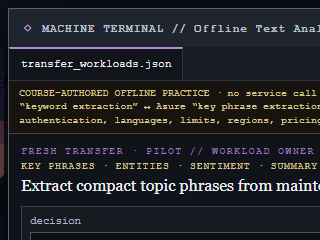
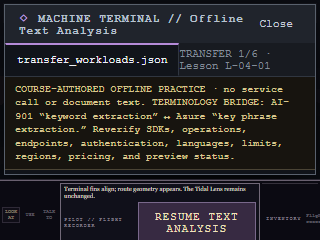
Round 14 step 2 Coder Agent checkpoint

diff --git a/horizon-archive-game/src/App.jsx b/horizon-archive-game/src/App.jsx
@@ -144,6 +144,19 @@ import {
   textAnalysisTransferScenarios,
   updateTextAnalysisEvidence,
 } from "./textAnalysisExercise.js";
+import {
+  evaluateSpeechExplanation,
+  evaluateSpeechScenario,
+  getSpeechOptions,
+  sanitizeSpeechEvidence,
+  speechDimensions,
+  speechExplanationDimensions,
+  speechPrimaryScenarios,
+  speechRemediation,
+  speechTransferScenarios,
+  speechWorkloadExercise,
+  updateSpeechEvidence,
+} from "./speechWorkloadExercise.js";
 
 const SAVE_KEY = "horizon-archive-prologue-v1";
 
@@ -325,6 +338,7 @@ function loadSave() {
       controlFlowEvidence: sanitizeControlFlowEvidence(saved.controlFlowEvidence),
       clientBridgeEvidence: sanitizeClientBridgeEvidence(saved.clientBridgeEvidence),
       textAnalysisEvidence: sanitizeTextAnalysisEvidence(saved.textAnalysisEvidence),
+      speechEvidence: sanitizeSpeechEvidence(saved.speechEvidence),
     };
   } catch {
     // A malformed local save should never prevent a new expedition.
@@ -371,6 +385,8 @@ export function App() {
   const [clientBridgeEvidence, setClientBridgeEvidence] = useState(null);
   const [textAnalysisSession, setTextAnalysisSession] = useState(null);
   const [textAnalysisEvidence, setTextAnalysisEvidence] = useState(null);
+  const [speechSession, setSpeechSession] = useState(null);
+  const [speechEvidence, setSpeechEvidence] = useState(null);
   const terminalTriggerRef = useRef(null);
   const continueButtonRef = useRef(null);
   const focusContinueAfterStructuredRef = useRef(false);
@@ -436,9 +452,10 @@ export function App() {
         controlFlowEvidence,
         clientBridgeEvidence,
         textAnalysisEvidence,
+        speechEvidence,
       }));
     }
-  }, [mode, sceneIndex, completed, pendingAdvance, scene.id, exerciseEvidence, workloadEvidence, evidencePacketMastery, routeMarkerMastery, calibrationMastery, responsibleAIEvidence, modelChoiceEvidence, structuredPacketEvidence, controlFlowEvidence, clientBridgeEvidence, textAnalysisEvidence]);
+  }, [mode, sceneIndex, completed, pendingAdvance, scene.id, exerciseEvidence, workloadEvidence, evidencePacketMastery, routeMarkerMastery, calibrationMastery, responsibleAIEvidence, modelChoiceEvidence, structuredPacketEvidence, controlFlowEvidence, clientBridgeEvidence, textAnalysisEvidence, speechEvidence]);
 
   useLayoutEffect(() => {
     if (!focusContinueAfterStructuredRef.current || terminalOpen || structuredPacketEvidence?.masteryStatus !== "mastered") return;
@@ -502,6 +519,8 @@ export function App() {
     setClientBridgeEvidence(null);
     setTextAnalysisSession(null);
     setTextAnalysisEvidence(null);
+    setSpeechSession(null);
+    setSpeechEvidence(null);
     setMode("playing");
   }
 
@@ -534,6 +553,8 @@ export function App() {
     if (saved.textAnalysisEvidence?.masteryStatus === "mastered") focusContinueAfterTextRef.current = true;
     setTextAnalysisEvidence(saved.textAnalysisEvidence);
     setTextAnalysisSession(null);
+    setSpeechEvidence(saved.speechEvidence);
+    setSpeechSession(null);
     setResponsibleAIEvidence(saved.responsibleAIEvidence);
     setResponsibleAISession(null);
     setModelChoiceEvidence(saved.modelChoiceEvidence);
@@ -1179,6 +1200,15 @@ export function App() {
   function acknowledgeTextAnalysisPrimary() { if (!textAnalysisSession?.complete || !textAnalysisEvidence?.confidence) return; setTextAnalysisEvidence((previous) => updateTextAnalysisEvidence(previous, { form: "transfer", masteryStatus: "primary_complete", clearMisconceptionTags: true })); setTextAnalysisSession(null); setTerminalOpen(false); setRuinsTerminalKind(null); setDialogue("Text Analysis primary form complete at 12 of 12. Fresh transfer and closed-note workload choice remain.", "teacher"); }
   function checkTextAnalysisExplanation(event) { event.preventDefault(); const result = evaluateTextAnalysisExplanation(textAnalysisSession.explanationResponse); setTextAnalysisSession({ ...textAnalysisSession, explanationResult: result }); setTextAnalysisEvidence((previous) => updateTextAnalysisEvidence(previous, { form: "explanation", scenarioId: "explanation", correctness: result.correctness, incrementAttempt: true, masteryStatus: "transfer_complete" })); }
   function acknowledgeTextAnalysisMastery() { if (!textAnalysisSession?.explanationResult?.passed || !textAnalysisSession.ownershipConfirmed || !textAnalysisEvidence?.confidence) return; focusContinueAfterTextRef.current = true; setTextAnalysisEvidence((previous) => updateTextAnalysisEvidence(previous, { form: "explanation", masteryStatus: "mastered", clearMisconceptionTags: true })); setTextAnalysisSession(null); setTerminalOpen(false); setRuinsTerminalKind(null); setDialogue("Text Analysis mastery confirmed: both 12-of-12 forms and closed-note workload explanation are complete.", "teacher"); }
+
+  function openSpeechWorkloads() { setTerminalOpen(true); setRuinsTerminalKind("speech-workloads"); if (!speechSession) { const form = speechEvidence?.masteryStatus === "primary_complete" ? "transfer" : speechEvidence?.masteryStatus === "transfer_complete" ? "explanation" : "primary"; setSpeechSession({ form, phase: form === "explanation" ? "explanation" : "scenarios", index: 0, response: { decision: "", reason: "" }, result: null, hintLevel: 0, complete: false, explanationResponse: { direction: "", workload: "", file_binding: "", result_branch: "" }, explanationResult: null, ownershipConfirmed: false }); } }
+  function exitSpeechWorkloads() { setTerminalOpen(false); setRuinsTerminalKind(null); setDialogue("Speech Workloads practice closed safely. No audio state exists; choices remain session-only.", "system"); }
+  function checkSpeech(event) { event.preventDefault(); const scenarios = speechSession.form === "transfer" ? speechTransferScenarios : speechPrimaryScenarios; const scenario = scenarios[speechSession.index]; const result = evaluateSpeechScenario(scenario.id, speechSession.response, speechSession.form); const hintLevel = result.passed ? speechSession.hintLevel : Math.max(1, speechSession.hintLevel); setSpeechSession({ ...speechSession, result, hintLevel }); setSpeechEvidence((previous) => updateSpeechEvidence(previous, { form: speechSession.form, scenarioId: scenario.id, correctness: result.correctness, incrementAttempt: true, hintLevel, misconceptionTags: result.misconceptionTags, masteryStatus: speechSession.form === "transfer" ? "primary_complete" : result.passed ? "in_progress" : "remediation_required" })); }
+  function revealSpeechHint() { const hintLevel = Math.min(3, speechSession.hintLevel + 1); setSpeechSession({ ...speechSession, hintLevel }); setSpeechEvidence((previous) => updateSpeechEvidence(previous, { hintLevel })); }
+  function advanceSpeech() { if (!speechSession.result?.passed) return; const scenarios = speechSession.form === "transfer" ? speechTransferScenarios : speechPrimaryScenarios; if (speechSession.index === scenarios.length - 1) { if (speechSession.form === "transfer") { setSpeechEvidence((previous) => updateSpeechEvidence(previous, { form: "explanation", masteryStatus: "transfer_complete", clearMisconceptionTags: true })); setSpeechSession({ ...speechSession, form: "explanation", phase: "explanation", result: null, hintLevel: 0 }); } else setSpeechSession({ ...speechSession, complete: true }); return; } setSpeechSession({ ...speechSession, index: speechSession.index + 1, response: { decision: "", reason: "" }, result: null, hintLevel: 0 }); }
+  function acknowledgeSpeechPrimary() { if (!speechSession?.complete || !speechEvidence?.confidence) return; setSpeechEvidence((previous) => updateSpeechEvidence(previous, { form: "transfer", masteryStatus: "primary_complete", clearMisconceptionTags: true })); setSpeechSession(null); setTerminalOpen(false); setRuinsTerminalKind(null); setDialogue("Speech Workloads primary form complete at 12 of 12. Fresh transfer and closed-note explanation remain.", "teacher"); }
+  function checkSpeechExplanation(event) { event.preventDefault(); const result = evaluateSpeechExplanation(speechSession.explanationResponse); setSpeechSession({ ...speechSession, explanationResult: result }); setSpeechEvidence((previous) => updateSpeechEvidence(previous, { form: "explanation", scenarioId: "explanation", correctness: result.correctness, incrementAttempt: true, masteryStatus: "transfer_complete" })); }
+  function acknowledgeSpeechMastery() { if (!speechSession?.explanationResult?.passed || !speechSession.ownershipConfirmed || !speechEvidence?.confidence) return; focusContinueAfterClientRef.current = true; setSpeechEvidence((previous) => updateSpeechEvidence(previous, { form: "explanation", masteryStatus: "mastered", clearMisconceptionTags: true })); setSpeechSession(null); setTerminalOpen(false); setRuinsTerminalKind(null); setDialogue("Speech Workloads mastery confirmed: both 12-of-12 forms and closed-note explanation are complete.", "teacher"); }
 
   function validateEvidenceOutput(event) {
     event.preventDefault();
@@ -2025,6 +2055,17 @@ export function App() {
             </section>
           </TerminalShell>
         )}
+        {terminalOpen && scene.id === "ruins" && ruinsTerminalKind === "speech-workloads" && speechSession && (
+          <TerminalShell exerciseId={speechWorkloadExercise.exercise_id} title="Offline Speech Workloads" filename={speechSession.phase === "explanation" ? "closed_note.md" : `${speechSession.form}_speech.json`} lessonId={speechWorkloadExercise.lesson_id} statusText={speechSession.phase === "explanation" ? "CLOSED-NOTE GATE" : `${speechSession.form.toUpperCase()} ${speechSession.index + 1}/6`} closeLabel="Exit Speech Workloads" restoreFocusTo={terminalTriggerRef.current} onClose={exitSpeechWorkloads}>
+            <section className="model-choice-workspace speech-workspace"><p className="model-choice-boundary">FULLY OFFLINE · no microphone, capture, playback generation, audio file, or service call. Reverify SDKs, endpoints, authentication, languages, voices, formats, regions, quotas, pricing, and previews.</p>
+              {speechSession.phase === "explanation" ? (
+                <form className="model-choice-form" onSubmit={checkSpeechExplanation}><header><p className="pane-label">PILOT // CLOSED-NOTE SPEECH-FLOW OWNER</p><h2>Explain direction, workload, file binding, and result branch</h2><p className="speech-transcript">Transcript-equivalent text: spoken audio becomes text through recognition; written text becomes audio through synthesis; a spoken general-model question uses multimodal prompt flow.</p></header><div className="model-choice-fields speech-explanation">{speechExplanationDimensions.map((dimension) => { const fieldResult = speechSession.explanationResult?.correctness[dimension]; const id = `speech-explanation-${dimension}-feedback`; return <label key={dimension}><span>{dimension.replaceAll("_", " ")}</span><input aria-label={`Closed-note speech ${dimension}`} aria-invalid={speechSession.explanationResult ? !fieldResult : undefined} aria-describedby={speechSession.explanationResult ? id : undefined} autoComplete="off" value={speechSession.explanationResponse[dimension]} onChange={(event) => setSpeechSession({ ...speechSession, explanationResponse: { ...speechSession.explanationResponse, [dimension]: event.target.value }, explanationResult: null, ownershipConfirmed: false })} />{speechSession.explanationResult && <small id={id}>{fieldResult ? "SYSTEM // Dimension confirmed." : `901 TEACHER // Rebuild ${dimension.replaceAll("_", " ")} from the text-equivalent flow.`}</small>}</label>; })}</div><section className="terminal-console model-choice-output"><div className="console-heading-row"><strong>SYSTEM // CLOSED-NOTE VALIDATOR</strong><button className="run-action" type="submit" disabled={speechExplanationDimensions.some((key) => !speechSession.explanationResponse[key])}>Check speech explanation</button></div><div className={speechSession.explanationResult ? "console-feedback active" : "console-feedback"} role="status" aria-live="polite">{speechSession.explanationResult ? `${speechSession.explanationResult.score}/4 · ${speechSession.explanationResult.passed ? "Complete speech-flow explanation confirmed." : "901 TEACHER // Trace direction, model/service choice, file source/destination, and cancellation."}` : "No audio, path, transcript, prompt, service response, or answer choice is shown."}</div>{speechSession.explanationResult?.passed && <><label className="ownership-confirmation"><input type="checkbox" checked={speechSession.ownershipConfirmed} onChange={(event) => setSpeechSession({ ...speechSession, ownershipConfirmed: event.target.checked })} />I produced this speech-flow explanation myself without notes.</label><fieldset className="confidence-group"><legend>Confidence after both forms</legend>{["low", "medium", "high"].map((value) => <label key={value}><input type="radio" name="speech-confidence" checked={speechEvidence?.confidence === value} onChange={() => setSpeechEvidence((previous) => updateSpeechEvidence(previous, { confidence: value }))} />{value}</label>)}</fieldset><button className="confirm-action" type="button" disabled={!speechSession.ownershipConfirmed || !speechEvidence?.confidence} onClick={acknowledgeSpeechMastery}>Acknowledge strict mastery</button></>}</section></form>
+              ) : speechSession.complete ? (
+                <section className="workload-summary"><p className="pane-label">901 TEACHER // PRIMARY FORM COMPLETE</p><h2>12 / 12 dimensions</h2><p>Recognition, synthesis, spoken multimodal prompts, input/output files, and cancellation handling pass. Fresh transfer and closed-note explanation remain.</p><fieldset className="confidence-group"><legend>Confidence after primary form</legend>{["low", "medium", "high"].map((value) => <label key={value}><input type="radio" name="speech-primary-confidence" checked={speechEvidence?.confidence === value} onChange={() => setSpeechEvidence((previous) => updateSpeechEvidence(previous, { confidence: value }))} />{value}</label>)}</fieldset><button className="confirm-action" type="button" disabled={!speechEvidence?.confidence} onClick={acknowledgeSpeechPrimary}>Acknowledge primary form</button></section>
+              ) : (() => { const scenarios = speechSession.form === "transfer" ? speechTransferScenarios : speechPrimaryScenarios; const scenario = scenarios[speechSession.index]; const options = getSpeechOptions(scenario.id, speechSession.form); return <form className="model-choice-form" onSubmit={checkSpeech}><header><p className="pane-label">{speechSession.form === "transfer" ? "FRESH TRANSFER" : "PRIMARY"} · PILOT // SPEECH-FLOW OWNER · {scenario.id}</p><p className="model-choice-layer-labels">AUDIO → TEXT · TEXT → AUDIO · SPOKEN MULTIMODAL PROMPT · RESULT/CANCELLATION</p><h2>{scenario.prompt}</h2><p className="speech-transcript">Transcript-equivalent scenario text: {scenario.prompt}</p></header><div className="model-choice-fields">{speechDimensions.map((dimension) => { const fieldResult = speechSession.result?.correctness[dimension]; const id = `speech-${dimension}-feedback`; return <label key={dimension}><span>{dimension}</span><select aria-label={`Speech ${dimension}`} aria-invalid={speechSession.result ? !fieldResult : undefined} aria-describedby={speechSession.result ? id : undefined} value={speechSession.response[dimension]} onChange={(event) => setSpeechSession({ ...speechSession, response: { ...speechSession.response, [dimension]: event.target.value }, result: null })}><option value="">Choose one</option>{options[dimension].map((value) => <option key={value} value={value}>{formatChoice(value)}</option>)}</select>{speechSession.result && <small id={id}>{fieldResult ? "SYSTEM // Correct." : `901 TEACHER // Review the ${dimension} from direction, file binding, and result reason.`}</small>}</label>; })}</div><section className="terminal-console model-choice-output"><div className="console-heading-row"><strong>SYSTEM // STRICT 12-DIMENSION VALIDATOR</strong><button className="run-action" type="submit" disabled={speechDimensions.some((key) => !speechSession.response[key])}>Check speech choice</button></div><div className={speechSession.result ? "console-feedback active" : "console-feedback"} role="status" aria-live="polite">{speechSession.result ? `${speechSession.result.score}/2 · ${speechSession.result.passed ? "Choice confirmed." : speechRemediation(scenario, speechSession.result, speechSession.hintLevel)}` : "Choose capability first, then source/destination and success/cancellation handling."}</div>{speechSession.result && !speechSession.result.passed && <button className="hint-action" type="button" disabled={speechSession.hintLevel >= 3} onClick={revealSpeechHint}>Reveal next speech-flow contrast</button>}{speechSession.result?.passed && <button className="confirm-action" type="button" onClick={advanceSpeech}>{speechSession.index === 5 ? (speechSession.form === "transfer" ? "Begin closed-note explanation" : "View primary result") : "Next scenario"}</button>}</section></form>; })()}
+            </section>
+          </TerminalShell>
+        )}
         {terminalOpen && scene.id === "automaton" && evidenceSession && (
           <TerminalShell
             exerciseId={evidencePacketExercise.exercise_id}
@@ -2187,7 +2228,10 @@ export function App() {
                   {pendingAdvance && scene.id === "ruins" && clientBridgeEvidence?.masteryStatus === "mastered" && textAnalysisEvidence?.masteryStatus !== "mastered" && (
                     <button ref={continueButtonRef} className="continue-action" data-terminal-focus-fallback onClick={(event) => { terminalTriggerRef.current = event.currentTarget; openTextAnalysis(); }}>{textAnalysisSession ? "Resume Text Analysis" : textAnalysisEvidence?.masteryStatus === "primary_complete" ? "Start Text Analysis Transfer" : textAnalysisEvidence?.masteryStatus === "transfer_complete" ? "Open Text Analysis Closed-Note Gate" : "Start Text Analysis"}</button>
                   )}
-                  {pendingAdvance && (scene.id !== "ruins" || textAnalysisEvidence?.masteryStatus === "mastered") && (
+                  {pendingAdvance && scene.id === "ruins" && textAnalysisEvidence?.masteryStatus === "mastered" && speechEvidence?.masteryStatus !== "mastered" && (
+                    <button ref={continueButtonRef} className="continue-action" data-terminal-focus-fallback onClick={(event) => { terminalTriggerRef.current = event.currentTarget; openSpeechWorkloads(); }}>{speechSession ? "Resume Speech Workloads" : speechEvidence?.masteryStatus === "primary_complete" ? "Start Speech Transfer" : speechEvidence?.masteryStatus === "transfer_complete" ? "Open Speech Closed-Note Gate" : "Start Speech Workloads"}</button>
+                  )}
+                  {pendingAdvance && (scene.id !== "ruins" || speechEvidence?.masteryStatus === "mastered") && (
                     <button ref={continueButtonRef} className="continue-action" data-terminal-focus-fallback onClick={continueJourney}>
                       {completed.length === scenes.length ? "Descend to the city" : "Continue"}
                     </button>

diff --git a/horizon-archive-game/src/speechWorkloadExercise.js b/horizon-archive-game/src/speechWorkloadExercise.js
@@ -1,0 +1,14 @@
+import exerciseAsset from "../../curriculum/lessons/L-04-02/exercise.json" with { type: "json" };
+import scenarioBank from "../../curriculum/lessons/L-04-02/scenario_bank.json" with { type: "json" };
+import answerKey from "../../curriculum/lessons/L-04-02/answer_key.json" with { type: "json" };
+export const speechWorkloadExercise = exerciseAsset; export const speechPrimaryScenarios = scenarioBank.forms.primary; export const speechTransferScenarios = scenarioBank.forms.transfer; export const speechDimensions = exerciseAsset.dimensions; export const speechExplanationDimensions = ["direction", "workload", "file_binding", "result_branch"];
+const distractors = { speech_recognition: { decision: "speech_synthesis", reason: "spoken_audio_is_generated_from_text" }, speech_synthesis: { decision: "speech_recognition", reason: "written_text_is_a_recognition_input" }, multimodal_spoken_prompt: { decision: "speech_recognition", reason: "every_spoken_question_only_needs_a_transcript" }, P04: { decision: "configure_audio_file_as_output", reason: "recognition_writes_transcript_into_the_audio_input" }, P05: { decision: "configure_audio_file_as_input", reason: "synthesis_reads_generated_audio_from_the_text_input" }, P06: { decision: "assume_successful_content", reason: "cancellation_is_valid_content" }, T04: { decision: "bind_recognizer_to_output_file", reason: "recognition_output_file_is_the_audio_source" }, T05: { decision: "bind_synthesizer_to_input_file", reason: "synthesis_input_audio_contains_the_written_text" }, T06: { decision: "treat_result_as_content", reason: "non_success_reasons_can_be_ignored" } };
+const tags = { speech_recognition: "recognition-is-synthesis", speech_synthesis: "synthesis-is-recognition", multimodal_spoken_prompt: "speech-service-is-any-multimodal-model", P04: "output-file-is-input-file", T04: "output-file-is-input-file", P05: "output-file-is-input-file", T05: "output-file-is-input-file", P06: "ignores-cancellation", T06: "ignores-cancellation" }; const validTags = new Set(exerciseAsset.misconception_tags); const all = [...speechPrimaryScenarios, ...speechTransferScenarios];
+export function getSpeechOptions(id, form = id?.startsWith("T") ? "transfer" : "primary") { const s = scenarioBank.forms[form].find((x) => x.id === id); const e = answerKey.forms[form][id]; const w = distractors[id] || distractors[s.topic]; return { decision: [e.decision, w.decision], reason: [e.reason, w.reason] }; }
+export function evaluateSpeechScenario(id, response, form = id?.startsWith("T") ? "transfer" : "primary") { const e = answerKey.forms[form]?.[id]; if (!e) return null; const correctness = Object.fromEntries(speechDimensions.map((k) => [k, response[k] === e[k]])); const passed = Object.values(correctness).every(Boolean); const s = scenarioBank.forms[form].find((x) => x.id === id); return { correctness, score: Object.values(correctness).filter(Boolean).length, passed, misconceptionTags: passed ? [] : [tags[id] || tags[s.topic]] }; }
+function norm(v) { return String(v ?? "").trim().toLowerCase().replace(/[^a-z0-9]+/g, "_").replace(/^_|_$/g, ""); }
+export function evaluateSpeechExplanation(response) { const e = { direction: "spoken_audio_to_text_is_recognition_text_to_audio_is_synthesis", workload: "spoken_general_model_question_is_multimodal_prompt_flow", file_binding: "recognition_reads_input_file_synthesis_writes_output_file", result_branch: "inspect_result_reason_handle_success_or_cancellation" }; const correctness = Object.fromEntries(speechExplanationDimensions.map((k) => [k, norm(response[k]) === e[k]])); return { correctness, score: Object.values(correctness).filter(Boolean).length, passed: Object.values(correctness).every(Boolean) }; }
+export function speechRemediation(s, r, l) { const missed = speechDimensions.filter((k) => !r.correctness[k]); if (l <= 1) return `Review ${missed.join(" and ")}: name input modality and required output.`; if (l === 2) return `Contrast Speech direction with deployed multimodal interaction for this ${s.topic.replaceAll("_", " ")} card.`; return "Trace input-file versus output-file direction, then branch on success or cancellation."; }
+function complete(c, scenarios) { return scenarios.every((s) => speechDimensions.every((k) => c[s.id]?.[k] === true)); }
+export function sanitizeSpeechEvidence(v) { if (!v || typeof v !== "object" || v.exerciseId !== exerciseAsset.exercise_id) return null; const dimensionCorrectness = {}; for (const s of [...all, { id: "explanation", dimensions: speechExplanationDimensions }]) { const keys = s.dimensions || speechDimensions; if (v.dimensionCorrectness?.[s.id]) dimensionCorrectness[s.id] = Object.fromEntries(keys.filter((k) => typeof v.dimensionCorrectness[s.id][k] === "boolean").map((k) => [k, v.dimensionCorrectness[s.id][k]])); } const strict = complete(dimensionCorrectness, speechPrimaryScenarios) && complete(dimensionCorrectness, speechTransferScenarios) && speechExplanationDimensions.every((k) => dimensionCorrectness.explanation?.[k] === true); let masteryStatus = ["in_progress", "remediation_required", "primary_complete", "transfer_complete", "mastered"].includes(v.masteryStatus) ? v.masteryStatus : "in_progress"; if (masteryStatus === "mastered" && !strict) masteryStatus = complete(dimensionCorrectness, speechTransferScenarios) ? "transfer_complete" : complete(dimensionCorrectness, speechPrimaryScenarios) ? "primary_complete" : "in_progress"; return { exerciseId: exerciseAsset.exercise_id, lessonId: exerciseAsset.lesson_id, activityId: exerciseAsset.activity_id, assessmentIds: [...exerciseAsset.assessment_ids], objectiveIds: [...exerciseAsset.objective_ids], skillIds: [...exerciseAsset.skill_ids], form: ["primary", "transfer", "explanation"].includes(v.form) ? v.form : "primary", dimensionCorrectness, attemptCount: Math.min(99, Math.max(0, Number.isInteger(v.attemptCount) ? v.attemptCount : 0)), hintLevel: Math.min(3, Math.max(0, Number.isInteger(v.hintLevel) ? v.hintLevel : 0)), confidence: ["low", "medium", "high"].includes(v.confidence) ? v.confidence : null, misconceptionTags: Array.isArray(v.misconceptionTags) ? [...new Set(v.misconceptionTags.filter((t) => validTags.has(t)))] : [], masteryStatus }; }
+export function updateSpeechEvidence(previous, changes = {}) { const safe = sanitizeSpeechEvidence(previous) || sanitizeSpeechEvidence({ exerciseId: exerciseAsset.exercise_id }); const dimensionCorrectness = { ...safe.dimensionCorrectness }; if (changes.scenarioId && changes.correctness) dimensionCorrectness[changes.scenarioId] = changes.correctness; return sanitizeSpeechEvidence({ ...safe, form: changes.form || safe.form, dimensionCorrectness, attemptCount: safe.attemptCount + (changes.incrementAttempt ? 1 : 0), hintLevel: Math.max(safe.hintLevel, changes.hintLevel || 0), confidence: changes.confidence || safe.confidence, misconceptionTags: changes.clearMisconceptionTags ? [] : [...safe.misconceptionTags, ...(changes.misconceptionTags || [])], masteryStatus: changes.masteryStatus || safe.masteryStatus }); }

diff --git a/horizon-archive-game/test/speechWorkloadExercise.test.js b/horizon-archive-game/test/speechWorkloadExercise.test.js
@@ -1,0 +1,5 @@
+import test from "node:test"; import assert from "node:assert/strict"; import primary from "../../curriculum/lessons/L-04-02/reference_primary_answers.json" with { type: "json" }; import transfer from "../../curriculum/lessons/L-04-02/reference_transfer_answers.json" with { type: "json" }; import { evaluateSpeechExplanation, evaluateSpeechScenario, sanitizeSpeechEvidence, speechPrimaryScenarios, speechTransferScenarios, updateSpeechEvidence } from "../src/speechWorkloadExercise.js";
+test("both speech forms pass 12/12 with three workloads and safeguards", () => { for (const [form, scenarios, answers] of [["primary", speechPrimaryScenarios, primary], ["transfer", speechTransferScenarios, transfer]]) { assert.equal(scenarios.length, 6); assert.equal(scenarios.filter((s) => s.topic === "client_flow").length, 3); for (const s of scenarios) assert.equal(evaluateSpeechScenario(s.id, answers[s.id], form).score, 2); } });
+test("direction and cancellation remediate independently", () => { assert.deepEqual(evaluateSpeechScenario("P06", { decision: primary.P06.decision, reason: "assume_success" }, "primary").correctness, { decision: true, reason: false }); });
+test("closed-note explanation requires direction workload file and result", () => { assert.equal(evaluateSpeechExplanation({ direction: "spoken audio to text is recognition text to audio is synthesis", workload: "spoken general model question is multimodal prompt flow", file_binding: "recognition reads input file synthesis writes output file", result_branch: "wrong" }).score, 3); });
+test("strict evidence strips all audio and free text", () => { let e = updateSpeechEvidence(null, {}); for (const [form, scenarios, answers] of [["primary", speechPrimaryScenarios, primary], ["transfer", speechTransferScenarios, transfer]]) for (const s of scenarios) e = updateSpeechEvidence(e, { form, scenarioId: s.id, correctness: evaluateSpeechScenario(s.id, answers[s.id], form).correctness }); e = updateSpeechEvidence(e, { form: "explanation", scenarioId: "explanation", correctness: { direction: true, workload: true, file_binding: true, result_branch: true }, masteryStatus: "mastered" }); assert.equal(e.masteryStatus, "mastered"); const safe = sanitizeSpeechEvidence({ ...e, audioBytes: "private", audioPath: "private", transcriptText: "private", spokenPrompt: "private", freeFormExplanation: "private" }); for (const k of ["audioBytes", "audioPath", "transcriptText", "spokenPrompt", "freeFormExplanation"]) assert.equal(k in safe, false); });

diff --git a/horizon-archive-game/src/styles.css b/horizon-archive-game/src/styles.css
@@ -529,8 +529,12 @@ h1 {
 .canonical-game-frame .terminal-workbench[data-terminal-exercise="EX-L0302-CONTROL-FLOW"] { overflow: hidden; }
 .canonical-game-frame .terminal-workbench[data-terminal-exercise="EX-L0303-CLIENT-BRIDGE"] { overflow: hidden; }
 .canonical-game-frame .terminal-workbench[data-terminal-exercise="EX-L0401-TEXT-ANALYSIS"] { overflow: hidden; }
+.canonical-game-frame .terminal-workbench[data-terminal-exercise="EX-L0402-SPEECH-WORKLOADS"] { overflow: hidden; }
 .text-analysis-explanation { grid-template-columns: repeat(4, minmax(0, 1fr)); }
 .canonical-game-frame[data-canonical-layout="narrow"] .text-analysis-explanation { grid-template-columns: 1fr; }
+.speech-explanation { grid-template-columns: repeat(4, minmax(0, 1fr)); }
+.canonical-game-frame[data-canonical-layout="narrow"] .speech-explanation { grid-template-columns: 1fr; }
+.speech-transcript { margin: 5px 0; padding: 5px 7px; color: #bfc8d2; background: #111820; border-left: 2px solid #768699; font-size: 0.6rem; line-height: 1.35; }
 .bridge-retrieval { overflow: auto; }
 .bridge-retrieval fieldset { margin: 6px 0; padding: 6px; color: #aeb7c3; border: 1px solid #39424d; font-size: 0.6rem; }
 .bridge-retrieval label { display: block; margin: 4px 0; }

diff --git a/Exercise Development/WORK_LOG.md b/Exercise Development/WORK_LOG.md
@@ -1,5 +1,15 @@
 # Exercise Agent Work Log
 
+## 2026-07-12 — L-04-02 Offline Speech Workloads complete Terminal gate
+
+- **Outcome:** Added `EX-L0402-SPEECH-WORKLOADS` as the mandatory offline Terminal after Text Analysis. Mastery requires packaged primary 12/12, fresh transfer 12/12, and a four-part closed-note direction/workload/file/result explanation. No L-04-03 gameplay was implemented.
+- **Learning/accessibility:** Both forms cover recognition audio→text, synthesis text→audio, spoken prompts to a deployed multimodal model, recognition input files, synthesis output files, and result/cancellation handling—three workload patterns plus three client safeguards per form. Every audio concept is rendered as labeled transcript-equivalent text; there is no capture, playback generation, audio-file dependency, or service call.
+- **Safety/privacy:** Evidence stores only allowlisted IDs, dimension booleans, attempts, maximum hint, confidence, tags, form, and mastery. Audio bytes/paths, transcripts, spoken prompts, service bodies, runtime output, selections, and free-form explanations never enter storage. SDK/API/endpoint/authentication/language/voice/format/region/quota/price/preview details remain visibly volatile.
+- **Ownership/contracts:** Pilot owns choices and closed-note explanation, System owns scoring, and the 901 Teacher owns remediation/readiness. Decision/reason and four explanation fields expose independent associated remediation. Focus, close/reopen, reload, privacy, reduced motion, canonical 640×480, authored 320×240, and post-mastery focus remain covered.
+- **Files/validation:** Added speech exercise model and tests; updated App, styles, manifest, E2E, this log, and three path-resolved captures. Curriculum self-test and both 12/12 references pass. All 75 unit tests and production build pass. Full journey passes both forms, cancellation/file-direction remediation, transcript-equivalent text, explanation, close/reopen, reload, privacy, distinct captures, title-to-credits, and zero runtime errors.
+- **Next recommended item:** Player Agent should challenge recognition/synthesis reversals, spoken multimodal confusion, file-direction mistakes, ignored cancellation, forged evidence, keyboard-only traversal, and canonical/narrow presentation before L-04-03.
+- **Unresolved risks:** Live speech service and multimodal deployment details are deliberately excluded and require current official verification before any live lab.
+
 ## 2026-07-12 — EX-L0401 Text Analysis continuity closure
 
 - **Outcome:** Closed the Text Analysis ownership, terminology, and focus handoff without starting L-04-02 or L-04-03 gameplay. Primary, transfer, and closed-note `SYSTEM` result lines now contain only deterministic totals and pass/not-complete state; capability/correlation and document-flow coaching renders in separate explicitly labeled `901 TEACHER` remediation regions.
